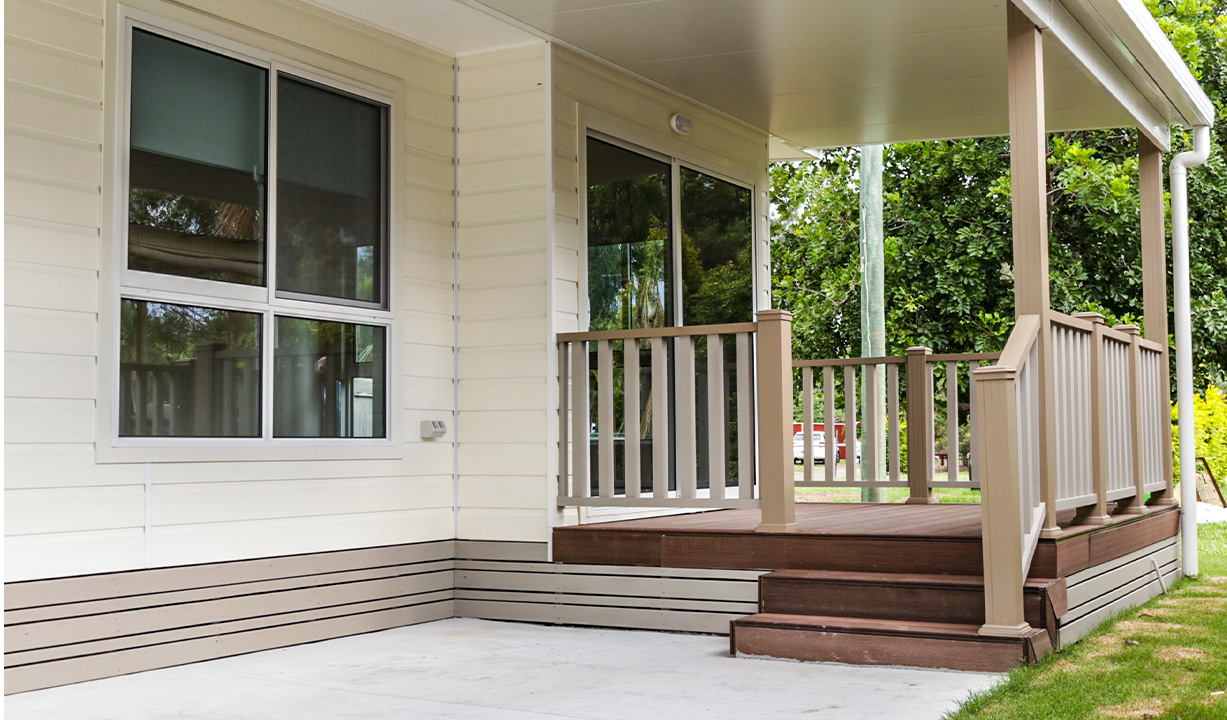
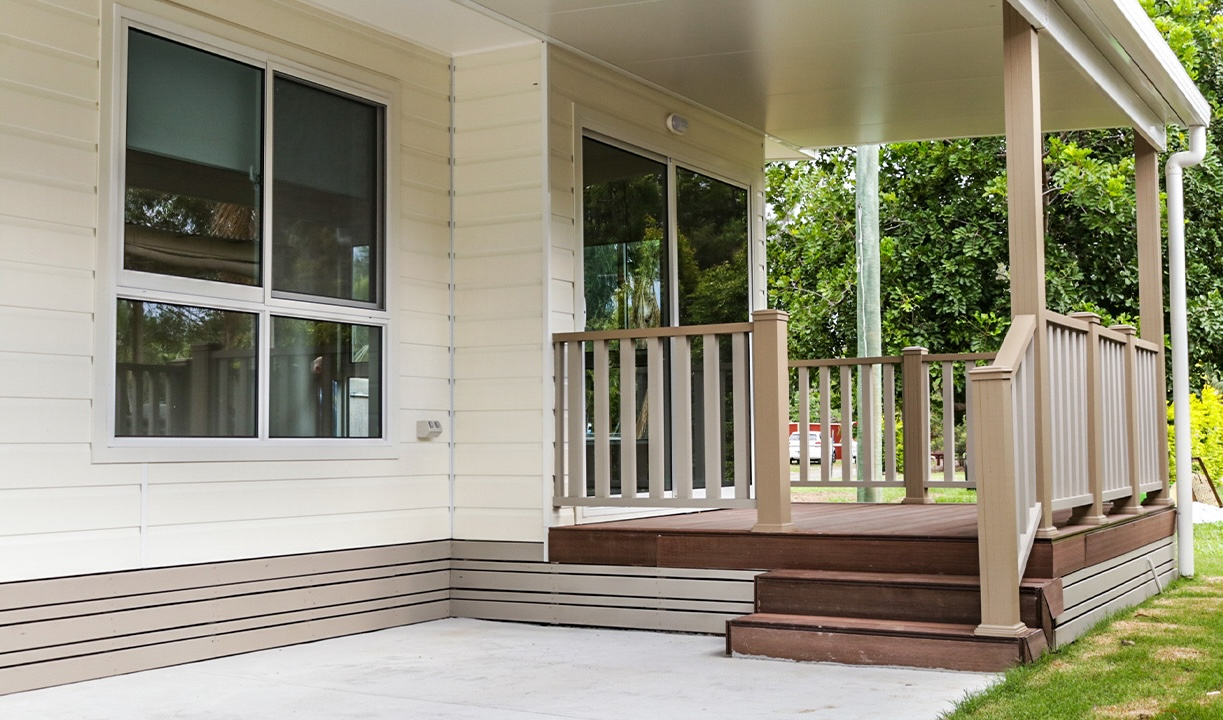
Enhance project descriptions and update image references for improved clarity and consistency

diff --git a/css/style.css b/css/style.css
@@ -1181,11 +1181,28 @@ button {
     line-height: 1;
 }
 
+/* Fixed-height stage so landscape and portrait images share one frame;
+   images are letterboxed (contain) instead of stretching the modal. */
+#main-carousel {
+    height: min(70vh, 640px);
+}
+
+#main-carousel .splide__track,
+#main-carousel .splide__list,
+#main-carousel .splide__slide {
+    height: 100%;
+}
+
+#main-carousel .splide__slide {
+    display: flex;
+    align-items: center;
+    justify-content: center;
+}
+
 #main-carousel img {
     width: 100%;
-    height: auto;
-    object-fit: cover;
-    /* border-radius: 8px; */
+    height: 100%;
+    object-fit: contain;
 }
 
 #thumbnail-carousel {
@@ -1209,7 +1226,7 @@ button {
 
 #thumbnail-carousel img {
     width: 100%;
-    height: auto;
+    height: 100%;
     object-fit: cover;
     /* border-radius: 4px; */
 }

diff --git a/projects.php b/projects.php
@@ -143,7 +143,7 @@ include 'inc/header.php';
                                     <h2 class="mb-4">Pacific House</h2>
                                     <p class="text-uppercase mb-5">3-Bedroom Residential Home</p>
                                     <div class="row">
-                                        <div class="col-lg-5 offset-lg-5">
+                                        <div class="col-xxl-5 offset-xxl-5">
                                             <p>A modern modular home designed for efficient construction and comfortable living.</p>
                                             <button type="button" class="view-gallery-btn">VIEW IMAGES</button>
                                         </div>
@@ -211,7 +211,7 @@ include 'inc/header.php';
                                     <h2 class="mb-4">Granny Flats</h2>
                                     <p class="text-uppercase mb-5">60 Units | 1-Bedroom Portable Cabins</p>
                                     <div class="row">
-                                        <div class="col-lg-5 offset-lg-5">
+                                        <div class="col-xxl-5 offset-xxl-5">
                                             <p>A large-scale modular housing project designed for rapid deployment and consistent build quality. </p>
                                             <button type="button" class="view-gallery-btn">VIEW IMAGES</button>
                                         </div>
@@ -267,7 +267,7 @@ include 'inc/header.php';
                                     <h2 class="mb-4">Site Office</h2>
                                     <p class="text-uppercase mb-5">Modular Office Facility</p>
                                     <div class="row">
-                                        <div class="col-lg-5 offset-lg-5">
+                                        <div class="col-xxl-5 offset-xxl-5">
                                             <p>A rapidly deployed modular workspace designed to support on-site operations.</p>
                                             <button type="button" class="view-gallery-btn">VIEW IMAGES</button>
                                         </div>
@@ -329,7 +329,7 @@ include 'inc/header.php';
                                     <h2 class="mb-4">Canteen Facility</h2>
                                     <p class="text-uppercase mb-5">Modular Food Service Unit</p>
                                     <div class="row">
-                                        <div class="col-lg-5 offset-lg-5">
+                                        <div class="col-xxl-5 offset-xxl-5">
                                             <p>Designed for efficient food service operations within remote or temporary sites.</p>
                                             <button type="button" class="view-gallery-btn">VIEW IMAGES</button>
                                         </div>
@@ -391,7 +391,7 @@ include 'inc/header.php';
                                     <h2 class="mb-4">Laundry Facilities</h2>
                                     <p class="text-uppercase mb-5">Modular Utility Units</p>
                                     <div class="row">
-                                        <div class="col-lg-5 offset-lg-5">
+                                        <div class="col-xxl-5 offset-xxl-5">
                                             <p>Supporting infrastructure units designed for operational convenience in workforce environments.</p>
                                             <button type="button" class="view-gallery-btn">VIEW IMAGES</button>
                                         </div>
@@ -453,7 +453,8 @@ include 'inc/header.php';
                                     <h2 class="mb-4">Coomera Project</h2>
                                     <p class="text-uppercase mb-5">Residential Home</p>
                                     <div class="row">
-                                        <div class="col-lg-5 offset-lg-5">
+                                        <div class="col-xxl-5 offset-xxl-5">
+                                            <p>A modular kit home built from pre-engineered Luxwood components for fast assembly and dependable everyday living.</p>
                                             <button type="button" class="view-gallery-btn">VIEW IMAGES</button>
                                         </div>
                                     </div>
@@ -485,6 +486,7 @@ include 'inc/header.php';
                             <div class="row bottom-padding-lg">
                                 <div class="col-lg-5 d-flex flex-column justify-content-center">
                                     <div>
+                                        <p class="mb-4">A contemporary kit home designed for comfortable living, combining quick installation with durable Luxwood construction.</p>
                                         <button type="button" class="view-gallery-btn">VIEW IMAGES</button>
                                     </div>
                                 </div>
@@ -508,7 +510,8 @@ include 'inc/header.php';
                                     <h2 class="mb-4">Goonellabah Project</h2>
                                     <p class="text-uppercase mb-5">Residential Home</p>
                                     <div class="row">
-                                        <div class="col-lg-5 offset-lg-5">
+                                        <div class="col-xxl-5 offset-xxl-5">
+                                            <p>A residential home delivered with the Luxwood panel system, balancing efficient construction with lasting performance.</p>
                                             <button type="button" class="view-gallery-btn">VIEW IMAGES</button>
                                         </div>
                                     </div>
@@ -548,6 +551,7 @@ include 'inc/header.php';
                                 </div>
                                 <div class="col-lg-5 offset-lg-1 d-flex flex-column justify-content-center">
                                     <div>
+                                        <p class="mb-4">A residential home built with pre-engineered Luxwood components, designed for comfort, durability, and efficient construction.</p>
                                         <button type="button" class="view-gallery-btn">VIEW IMAGES</button>
                                     </div>
                                 </div>
@@ -572,7 +576,8 @@ include 'inc/header.php';
                                     <h2 class="mb-4">Helidon Project</h2>
                                     <p class="text-uppercase mb-5">Modular Building Units</p>
                                     <div class="row">
-                                        <div class="col-lg-5 offset-lg-5">
+                                        <div class="col-xxl-5 offset-xxl-5">
+                                            <p>Prefabricated modular building units engineered for rapid deployment and adaptable use across a range of site requirements.</p>
                                             <button type="button" class="view-gallery-btn">VIEW IMAGES</button>
                                         </div>
                                     </div>
@@ -603,6 +608,7 @@ include 'inc/header.php';
                             <div class="row bottom-padding-lg">
                                 <div class="col-lg-5 d-flex flex-column justify-content-center">
                                     <div>
+                                        <p class="mb-4">A residential home that pairs a practical layout with the speed and consistency of factory-prepared Luxwood components.</p>
                                         <button type="button" class="view-gallery-btn">VIEW IMAGES</button>
                                     </div>
                                 </div>
@@ -624,7 +630,8 @@ include 'inc/header.php';
                                     <h2 class="mb-4">Kimberley College</h2>
                                     <p class="text-uppercase mb-5">Modular Amenities</p>
                                     <div class="row">
-                                        <div class="col-lg-5 offset-lg-5">
+                                        <div class="col-xxl-5 offset-xxl-5">
+                                            <p>Purpose-built facilities supporting an educational campus, delivered efficiently with minimal disruption to daily activity.</p>
                                             <button type="button" class="view-gallery-btn">VIEW IMAGES</button>
                                         </div>
                                     </div>
@@ -661,6 +668,7 @@ include 'inc/header.php';
                                 </div>
                                 <div class="col-lg-5 offset-lg-1 d-flex flex-column justify-content-center">
                                     <div>
+                                        <p class="mb-4">A residential home designed for efficient construction, using durable Luxwood materials suited to long-term living.</p>
                                         <button type="button" class="view-gallery-btn">VIEW IMAGES</button>
                                     </div>
                                 </div>
@@ -676,14 +684,15 @@ include 'inc/header.php';
                         <div class="projects-block" data-country="australia" data-type="residential">
                             <div class="row mb-5 pb-5">
                                 <div class="col-lg-5 projects-feature-media-col">
-                                    <img src="img/projects/australia/sydney_1.jpg" alt="Sydney Project" class="projects-feature-media-img">
+                                    <img src="img/projects/australia/sydney_2.jpg" alt="Sydney Project" class="projects-feature-media-img">
                                 </div>
 
                                 <div class="col-lg-7">
                                     <h2 class="mb-4">Sydney Project</h2>
                                     <p class="text-uppercase mb-5">Residential Home</p>
                                     <div class="row">
-                                        <div class="col-lg-5 offset-lg-5">
+                                        <div class="col-xxl-5 offset-xxl-5">
+                                            <p>A modular kit home built from pre-engineered Luxwood components, offering fast installation and dependable long-term performance.</p>
                                             <button type="button" class="view-gallery-btn">VIEW IMAGES</button>
                                         </div>
                                     </div>
@@ -692,7 +701,7 @@ include 'inc/header.php';
 
                             <div class="row bottom-padding-lg projects-content-overlap-row">
                                 <div class="col-lg-7 offset-lg-3">
-                                    <img src="img/projects/australia/sydney_2.jpg" alt="Sydney Project" class="img-fluid w-100">
+                                    <img src="img/projects/australia/sydney_1.jpg" alt="Sydney Project" class="img-fluid w-100">
                                 </div>
                             </div>
                             <div class="projects-gallery-images d-none">
@@ -707,14 +716,14 @@ include 'inc/header.php';
                         <!-- <div class="projects-block" data-country="china" data-type="residential">
                             <div class="row mb-5 pb-5">
                                 <div class="col-lg-5 projects-feature-media-col">
-                                    <img src="https://tref.digitaldesignnyc.co/wp-content/uploads/2023/12/main2.jpeg" alt="Zambia House" class="projects-feature-media-img">
+                                    <img src="" alt="Zambia House" class="projects-feature-media-img">
                                 </div>
 
                                 <div class="col-lg-7">
                                     <h2 class="mb-4">Zambia House</h2>
                                     <p class="text-uppercase mb-5">2-Bedroom Residential Home</p>
                                     <div class="row">
-                                        <div class="col-lg-5 offset-lg-5">
+                                        <div class="col-xxl-5 offset-xxl-5">
                                             <p>A modular home built using Luxwood panels, combining structural performance with efficient construction methods.</p>
                                             <button type="button" class="view-gallery-btn">VIEW IMAGES</button>
                                         </div>
@@ -724,7 +733,7 @@ include 'inc/header.php';
 
                             <div class="row bottom-padding-lg projects-content-overlap-row">
                                 <div class="col-lg-7 offset-lg-3">
-                                    <img src="https://tref.digitaldesignnyc.co/wp-content/uploads/2023/12/slide2.jpeg" alt="Zambia House" class="img-fluid w-100">
+                                    <img src="" alt="Zambia House" class="img-fluid w-100">
                                 </div>
                             </div>
                         </div> -->
@@ -747,7 +756,7 @@ include 'inc/header.php';
                                 </div>
 
                                 <div class="col-lg-5 offset-lg-1">
-                                    <img src="https://tref.digitaldesignnyc.co/wp-content/uploads/2023/12/main4.png" alt="Beijing House" class="img-fluid w-100">
+                                    <img src="" alt="Beijing House" class="img-fluid w-100">
                                 </div>
                             </div>
                         </div> -->
@@ -759,7 +768,7 @@ include 'inc/header.php';
                                     <h2 class="mb-4">Theodor Herzl School</h2>
                                     <p class="text-uppercase mb-5">Educational Facility | 100+ Students</p>
                                     <div class="row">
-                                        <div class="col-lg-5 offset-lg-5">
+                                        <div class="col-xxl-5 offset-xxl-5">
                                             <p>A modular school development designed to accommodate over 100 students, showcasing the scalability and reliability of the Luxwood system in community infrastructure.</p>
                                             <button type="button" class="view-gallery-btn">VIEW IMAGES</button>
                                         </div>
@@ -815,7 +824,8 @@ include 'inc/header.php';
                                     <h2 class="mb-4">Congo Project</h2>
                                     <p class="text-uppercase mb-5">Residential Home</p>
                                     <div class="row">
-                                        <div class="col-lg-5 offset-lg-5">
+                                        <div class="col-xxl-5 offset-xxl-5">
+                                            <p>A residential home built for demanding climates, using durable, moisture-resistant Luxwood panels.</p>
                                             <button type="button" class="view-gallery-btn">VIEW IMAGES</button>
                                         </div>
                                     </div>
@@ -844,6 +854,7 @@ include 'inc/header.php';
                             <div class="row bottom-padding-lg">
                                 <div class="col-lg-5 d-flex flex-column justify-content-center">
                                     <div>
+                                        <p class="mb-4">A modular commercial facility demonstrating the speed and flexibility of the Luxwood system for business use.</p>
                                         <button type="button" class="view-gallery-btn">VIEW IMAGES</button>
                                     </div>
                                 </div>
@@ -865,7 +876,8 @@ include 'inc/header.php';
                                     <h2 class="mb-4">Liberia Project</h2>
                                     <p class="text-uppercase mb-5">Residential Home</p>
                                     <div class="row">
-                                        <div class="col-lg-5 offset-lg-5">
+                                        <div class="col-xxl-5 offset-xxl-5">
+                                            <p>A residential home delivered with lightweight, moisture- and pest-resistant Luxwood panels suited to demanding climates.</p>
                                             <button type="button" class="view-gallery-btn">VIEW IMAGES</button>
                                         </div>
                                     </div>
@@ -903,6 +915,7 @@ include 'inc/header.php';
                                 </div>
                                 <div class="col-lg-5 offset-lg-1 d-flex flex-column justify-content-center">
                                     <div>
+                                        <p class="mb-4">A commercial facility built for rapid deployment, showing how the Luxwood system adapts to diverse working environments.</p>
                                         <button type="button" class="view-gallery-btn">VIEW IMAGES</button>
                                     </div>
                                 </div>
@@ -923,10 +936,11 @@ include 'inc/header.php';
                                 </div>
 
                                 <div class="col-lg-7">
-                                    <h2 class="mb-4">Accommodation Project</h2>
+                                    <h2 class="mb-4">Accommo&shy;dation Project</h2>
                                     <p class="text-uppercase mb-5">Accommodation Units</p>
                                     <div class="row">
-                                        <div class="col-lg-5 offset-lg-5">
+                                        <div class="col-xxl-5 offset-xxl-5">
+                                            <p>Modular accommodation units designed for rapid installation, consistent build quality, and dependable everyday comfort.</p>
                                             <button type="button" class="view-gallery-btn">VIEW IMAGES</button>
                                         </div>
                                     </div>
@@ -955,6 +969,7 @@ include 'inc/header.php';
                             <div class="row bottom-padding-lg">
                                 <div class="col-lg-5 d-flex flex-column justify-content-center">
                                     <div>
+                                        <p class="mb-4">A commercial building showing how the Luxwood system delivers flexible, professional space with efficient construction.</p>
                                         <button type="button" class="view-gallery-btn">VIEW IMAGES</button>
                                     </div>
                                 </div>
@@ -975,7 +990,8 @@ include 'inc/header.php';
                                     <h2 class="mb-4">Luxury House</h2>
                                     <p class="text-uppercase mb-5">Residential Home</p>
                                     <div class="row">
-                                        <div class="col-lg-5 offset-lg-5">
+                                        <div class="col-xxl-5 offset-xxl-5">
+                                            <p>A high-specification home that pairs refined finishes with the structural strength and efficiency of the Luxwood system.</p>
                                             <button type="button" class="view-gallery-btn">VIEW IMAGES</button>
                                         </div>
                                     </div>
@@ -1011,6 +1027,7 @@ include 'inc/header.php';
                                 </div>
                                 <div class="col-lg-5 offset-lg-1 d-flex flex-column justify-content-center">
                                     <div>
+                                        <p class="mb-4">A residential home combining a distinctive architectural style with the strength and efficiency of the Luxwood system.</p>
                                         <button type="button" class="view-gallery-btn">VIEW IMAGES</button>
                                     </div>
                                 </div>
@@ -1028,7 +1045,8 @@ include 'inc/header.php';
                                     <h2 class="mb-4">Public Facility</h2>
                                     <p class="text-uppercase mb-5">Community Facility</p>
                                     <div class="row">
-                                        <div class="col-lg-5 offset-lg-5">
+                                        <div class="col-xxl-5 offset-xxl-5">
+                                            <p>A modular community facility built for public use, delivering durable, low-maintenance space with efficient construction.</p>
                                             <button type="button" class="view-gallery-btn">VIEW IMAGES</button>
                                         </div>
                                     </div>
@@ -1060,6 +1078,7 @@ include 'inc/header.php';
                             <div class="row bottom-padding-lg">
                                 <div class="col-lg-5 d-flex flex-column justify-content-center">
                                     <div>
+                                        <p class="mb-4">Emergency relief housing designed for rapid deployment, providing safe and dependable shelter when speed matters most.</p>
                                         <button type="button" class="view-gallery-btn">VIEW IMAGES</button>
                                     </div>
                                 </div>
@@ -1079,14 +1098,14 @@ include 'inc/header.php';
                         <!-- <div class="projects-block" data-country="south-africa" data-type="residential">
                             <div class="row mb-5 pb-5">
                                 <div class="col-lg-5 projects-feature-media-col">
-                                    <img src="https://tref.digitaldesignnyc.co/wp-content/uploads/2023/12/main2.jpeg" alt="Britannia Bay Residence" class="projects-feature-media-img">
+                                    <img src="" alt="Britannia Bay Residence" class="projects-feature-media-img">
                                 </div>
 
                                 <div class="col-lg-7">
                                     <h2 class="mb-4">Britannia Bay Residence</h2>
                                     <p class="text-uppercase mb-5">2-Level | 2-Bedroom Residential Home</p>
                                     <div class="row">
-                                        <div class="col-lg-5 offset-lg-5">
+                                        <div class="col-xxl-5 offset-xxl-5">
                                             <p>A coastal residential development designed to perform in demanding environmental conditions.</p>
                                             <button type="button" class="view-gallery-btn">VIEW IMAGES</button>
                                         </div>
@@ -1096,7 +1115,7 @@ include 'inc/header.php';
 
                             <div class="row bottom-padding-lg projects-content-overlap-row">
                                 <div class="col-lg-7 offset-lg-3">
-                                    <img src="https://tref.digitaldesignnyc.co/wp-content/uploads/2023/12/slide2.jpeg" alt="Britannia Bay Residence" class="img-fluid w-100">
+                                    <img src="" alt="Britannia Bay Residence" class="img-fluid w-100">
                                 </div>
                             </div>
                         </div> -->
